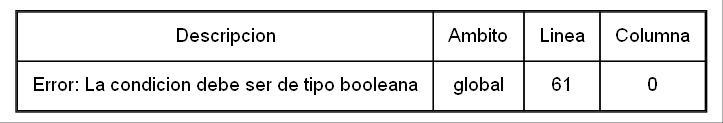
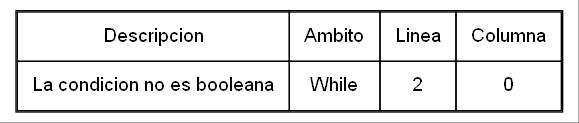
manejo de funciones nativas y manejo de nil

Changed region(s): [[0.0, 0.0732, 0.9948, 0.9268], [0.1554, 0.2195, 0.4041, 0.3659], [0.8705, 0.6098, 0.9326, 0.7561]]

diff --git a/backend/grammar/symbol/Generator.go b/backend/grammar/symbol/Generator.go
@@ -16,6 +16,8 @@ type Generator struct {
 	inNative        bool
 	printStringFunc bool
 	AddString       bool
+	funcInt         bool
+	lenString       bool
 }
 
 func (g *Generator) ClearAll() {
@@ -29,6 +31,8 @@ func (g *Generator) ClearAll() {
 	g.inNative = false
 	g.printStringFunc = false
 	g.AddString = false
+	g.funcInt = false
+	g.lenString = false
 
 }
 
@@ -44,6 +48,8 @@ func NewGenerator() *Generator {
 		inNative:        false,
 		printStringFunc: false,
 		AddString:       false,
+		funcInt:         false,
+		lenString:       false,
 	}
 }
 
@@ -91,6 +97,66 @@ func (g *Generator) AddComment(comment string) {
 func (g *Generator) GetCode() string {
 
 	return g.Header() + g.funcs + g.natives + "\nint main(){\n" + g.code + "\nreturn 0;\n}"
+}
+
+// ************************************lenString************************************
+
+// **********************************FUNC STRING TO NUMBER**********************************
+func (g *Generator) AddFuncStringToNumber() {
+	if g.funcInt {
+		return
+	}
+	g.funcInt = true
+	g.inNative = true
+	g.AddFunc("stringToNumber")
+	labelCompare := g.AddLabel()
+	labelJump := g.AddLabel()
+	labelif := g.AddLabel()
+	labelElse := g.AddLabel()
+	labelInt := g.AddLabel()
+	labelDecimal := g.AddLabel()
+	labelRes := g.AddLabel()
+	temp1 := g.AddTemporal()
+	temp2 := g.AddTemporal()
+	tempNum := g.AddTemporal()
+	tempAcum := g.AddTemporal()
+	tempDecimal := g.AddTemporal()
+	tempDecimalPart := g.AddTemporal()
+	tempMultiplier := g.AddTemporal()
+	temp6 := g.AddTemporal()
+	g.AddAssign(tempAcum, "0")
+	g.AddAssign(tempDecimalPart, "0")
+	g.AddAssign(tempMultiplier, "0.1")
+	g.AddAssign(tempDecimal, "0")
+	g.GetStack("P", temp1)
+	g.PutLabel(labelJump)
+	g.GetHeap(temp1, temp2)
+	g.AddIf(temp2, "-1", "==", labelCompare)
+	g.AddIf(temp2, "46", "==", labelif)
+	g.AddGoto(labelElse)
+	g.PutLabel(labelif)
+	g.AddAssign(tempDecimal, "1")
+	g.AddGoto(labelRes)
+	g.PutLabel(labelElse)
+	g.AddExpression(temp2, "48", "-", tempNum)
+	g.AddIf(tempDecimal, "1", "==", labelDecimal)
+	g.PutLabel(labelInt)
+	g.AddExpression(tempAcum, "10", "*", tempAcum)
+	g.AddExpression(tempAcum, tempNum, "+", tempAcum)
+	g.AddGoto(labelRes)
+	g.PutLabel(labelDecimal)
+	g.AddExpression(tempNum, tempMultiplier, "*", temp6)
+	g.AddExpression(tempDecimalPart, temp6, "+", tempDecimalPart)
+	g.AddExpression(tempMultiplier, "0.1", "*", tempMultiplier)
+	g.PutLabel(labelRes)
+	g.AddExpression(temp1, "1", "+", temp1)
+	g.AddGoto(labelJump)
+	g.PutLabel(labelCompare)
+	g.AddExpression(tempAcum, tempDecimalPart, "+", tempAcum)
+	g.SetStack("P", tempAcum)
+	g.CodeIn("return;\n}\n")
+	g.inNative = false
+
 }
 
 //*************************************PRINT*************************************

diff --git a/backend/grammar/expressions/NativeFunction.go b/backend/grammar/expressions/NativeFunction.go
@@ -16,13 +16,19 @@ func NewNativeFunction(Id string, Expression Abstract.Expression) *NativeFunctio
 }
 
 func (n NativeFunction) Int(table Enviorement.SymbolTable, tree *Enviorement.AST) Enviorement.ReturnSymbol {
+	genAux := Enviorement.NewGenerator()
+	generator := genAux.GetInstance()
+
 	value := n.Expression.GetValue(table, tree)
 	if value.Type == Enviorement.STRING {
-		valueReturn, err := strconv.Atoi(value.Value.(string))
-		if err != nil {
-			return Enviorement.ReturnSymbol{}
-		}
-		return Enviorement.ReturnSymbol{Type: Enviorement.INT, Value: valueReturn}
+		generator.AddEnv(strconv.Itoa(table.GetSizeEnv()))
+		generator.AddFuncStringToNumber()
+		generator.SetStack("P", value.Value.(string))
+		generator.AddCall("stringToNumber")
+		temporal := generator.AddTemporal()
+		generator.GetStack("P", temporal)
+		generator.ReturnEnv(strconv.Itoa(table.GetSizeEnv()))
+		return Enviorement.ReturnSymbol{Type: Enviorement.INT, Value: temporal}
 	} else if value.Type == Enviorement.FLOAT {
 		valueReturn := int(value.Value.(float64))
 		return Enviorement.ReturnSymbol{Type: Enviorement.INT, Value: valueReturn}
@@ -41,13 +47,18 @@ func (n NativeFunction) Int(table Enviorement.SymbolTable, tree *Enviorement.AST
 }
 
 func (n NativeFunction) Float(table Enviorement.SymbolTable, tree *Enviorement.AST) Enviorement.ReturnSymbol {
+	genAux := Enviorement.NewGenerator()
+	generator := genAux.GetInstance()
 	value := n.Expression.GetValue(table, tree)
 	if value.Type == Enviorement.STRING {
-		valueReturn, err := strconv.ParseFloat(value.Value.(string), 64)
-		if err != nil {
-			return Enviorement.ReturnSymbol{}
-		}
-		return Enviorement.ReturnSymbol{Type: Enviorement.FLOAT, Value: valueReturn}
+		generator.AddEnv(strconv.Itoa(table.GetSizeEnv()))
+		generator.AddFuncStringToNumber()
+		generator.SetStack("P", value.Value.(string))
+		generator.AddCall("stringToNumber")
+		temporal := generator.AddTemporal()
+		generator.GetStack("P", temporal)
+		generator.ReturnEnv(strconv.Itoa(table.GetSizeEnv()))
+		return Enviorement.ReturnSymbol{Type: Enviorement.FLOAT, Value: temporal}
 	} else if value.Type == Enviorement.FLOAT {
 		return value
 	} else if value.Type == Enviorement.INT {

diff --git a/backend/grammar/instructions/Print.go b/backend/grammar/instructions/Print.go
@@ -72,7 +72,20 @@ func (p Print) String(value symbol.ReturnSymbol) string {
 func (p Print) Execute(table symbol.SymbolTable, ast *symbol.AST) interface{} {
 	genAux := Generator.NewGenerator()
 	generator := genAux.GetInstance()
+	label01 := generator.AddLabel()
+	label02 := generator.AddLabel()
+	label03 := generator.AddLabel()
 	value := p.Expression[0].(abstract.Expression).GetValue(table, ast)
+	generator.AddIf(value.Value.(string), "9999999827968.00", "==", label01)
+	generator.AddGoto(label02)
+	generator.PutLabel(label01)
+	generator.AddPrint("c", "110")
+	generator.AddPrint("c", "105")
+	generator.AddPrint("c", "108")
+	generator.Println()
+	generator.AddGoto(label03)
+	generator.PutLabel(label02)
+
 	if value.Type == symbol.INT {
 		generator.AddPrint("d", value.Value.(string))
 		generator.Println()
@@ -84,8 +97,8 @@ func (p Print) Execute(table symbol.SymbolTable, ast *symbol.AST) interface{} {
 		generator.AddEnv(strconv.Itoa(table.GetSize()))
 		generator.SetStack("P", value.Value.(string))
 		generator.AddComment("Aqui se debe llamar a la funcion printString")
-		generator.Println()
 		generator.AddCall("printString")
+		generator.Println()
 		generator.ReturnEnv(strconv.Itoa(table.GetSize()))
 	} else if value.Type == symbol.STRING {
 		generator.AddPrintString()
@@ -116,6 +129,7 @@ func (p Print) Execute(table symbol.SymbolTable, ast *symbol.AST) interface{} {
 		generator.PutLabel(labelExit)
 		generator.Println()
 	}
+	generator.PutLabel(label03)
 	return nil
 	/*
 		if len(p.Expression) == 0 {

diff --git a/backend/grammar/expressions/ArithmeticOperations.go b/backend/grammar/expressions/ArithmeticOperations.go
@@ -211,10 +211,30 @@ func Division(left interface{}, right interface{}, typeleft Enviorement.TypeData
 	var result Enviorement.ReturnSymbol
 	genAux := Generator.NewGenerator()
 	generator := genAux.GetInstance()
+	labelInit := generator.AddLabel()
+	labelSuss := generator.AddLabel()
+	labelEnd := generator.AddLabel()
+	temporal := generator.AddTemporal()
 	if typeleft == Enviorement.INT && typeright == Enviorement.INT {
 		//operation := left.(int) / right.(int)
-		temporal := generator.AddTemporal()
+		generator.AddIf(right.(string), "0", "==", labelInit)
+		generator.AddGoto(labelSuss)
+		generator.PutLabel(labelInit)
+		generator.AddPrint("c", "77")
+		generator.AddPrint("c", "97")
+		generator.AddPrint("c", "116")
+		generator.AddPrint("c", "104")
+		generator.AddPrint("c", "69")
+		generator.AddPrint("c", "114")
+		generator.AddPrint("c", "114")
+		generator.AddPrint("c", "111")
+		generator.AddPrint("c", "114")
+		generator.Println()
+		generator.AddAssign(temporal, "0")
+		generator.AddGoto(labelEnd)
+		generator.PutLabel(labelSuss)
 		generator.AddExpression(left.(string), right.(string), "/", temporal)
+		generator.PutLabel(labelEnd)
 		result = Enviorement.ReturnSymbol{
 			Type:  Enviorement.INT,
 			Value: temporal,

diff --git a/backend/grammar/instructions/If.go b/backend/grammar/instructions/If.go
@@ -42,6 +42,8 @@ func (i *If) Execute(table Enviorment.SymbolTable, ast *Enviorement.AST) interfa
 	}
 
 	newEnviorement := Enviorment.NewEnviorement("if", &table)
+	newEnviorement.SetTrueLabel(table.GetTrueLabel())
+	newEnviorement.SetFalseLabel(table.GetFalseLabel())
 	for _, labels := range condition.LabelTrue {
 
 		if reflect.TypeOf(labels).Kind() != reflect.Slice || reflect.TypeOf(labels).Elem().Kind() == reflect.Interface {
@@ -64,6 +66,8 @@ func (i *If) Execute(table Enviorment.SymbolTable, ast *Enviorement.AST) interfa
 	}
 	generator.AddGoto(labelJump)
 	newEnviorement01 := Enviorment.NewEnviorement("else", &table)
+	newEnviorement01.SetTrueLabel(table.GetTrueLabel())
+	newEnviorement01.SetFalseLabel(table.GetFalseLabel())
 	for _, labels := range condition.LabelFalse {
 		if reflect.TypeOf(labels).Kind() != reflect.Slice || reflect.TypeOf(labels).Elem().Kind() == reflect.Interface {
 			generator.PutLabel(labels.(string))

diff --git a/backend/grammar/instructions/DeclareVariable.go b/backend/grammar/instructions/DeclareVariable.go
@@ -92,6 +92,8 @@ func (d *DeclareVariable) Execute(table Enviorement.SymbolTable, ast *Envioremen
 
 		} else if value.Type == symbol.CHAR {
 			generator.SetStack(strconv.Itoa(tempPos), value.GetValue().(string))
+		} else if value.Type == symbol.NIL {
+			generator.SetStack(strconv.Itoa(tempPos), value.GetValue().(string))
 		}
 		ast.UpdateSymbolTable("<tr><td>" + d.Identifier + "</td><td>Variable</td><td>" + strconv.Itoa(int(d.TypeD)) + "</td><td>" + table.GetName() + "</td><td>" + strconv.Itoa(d.Line) + "</td><td>" + strconv.Itoa(d.Column) + "</td></tr>")
 	} else {

diff --git a/backend/grammar/instructions/While.go b/backend/grammar/instructions/While.go
@@ -52,6 +52,7 @@ func (w *While) Execute(table Enviorement.SymbolTable, ast *Enviorement.AST) int
 
 	newEnviorement.SetTrueLabel(newLabel)
 	newEnviorement.SetFalseLabel(temporal)
+
 	for _, instr := range w.codeWhile {
 		result := instr.(Abstract.Instruction).Execute(newEnviorement, ast) //ejecuta instrucciones
 		if reflect.TypeOf(result) == reflect.TypeOf(Enviorement.ReturnSymbol{}) {

diff --git a/backend/grammar/expressions/Native.go b/backend/grammar/expressions/Native.go
@@ -72,6 +72,13 @@ func (n Native) GetValue(env Scoope.SymbolTable, ast *Scoope.AST) Scoope.ReturnS
 			Type:  n.TypeR,
 			Value: temporal,
 		}
+	} else if n.TypeR == Scoope.NIL {
+		temporal := generator.AddTemporal()
+		generator.AddAssign(temporal, "9999999827968.00")
+		return Scoope.ReturnSymbol{
+			Type:  n.TypeR,
+			Value: temporal,
+		}
 	}
 
 	return Scoope.ReturnSymbol{}
